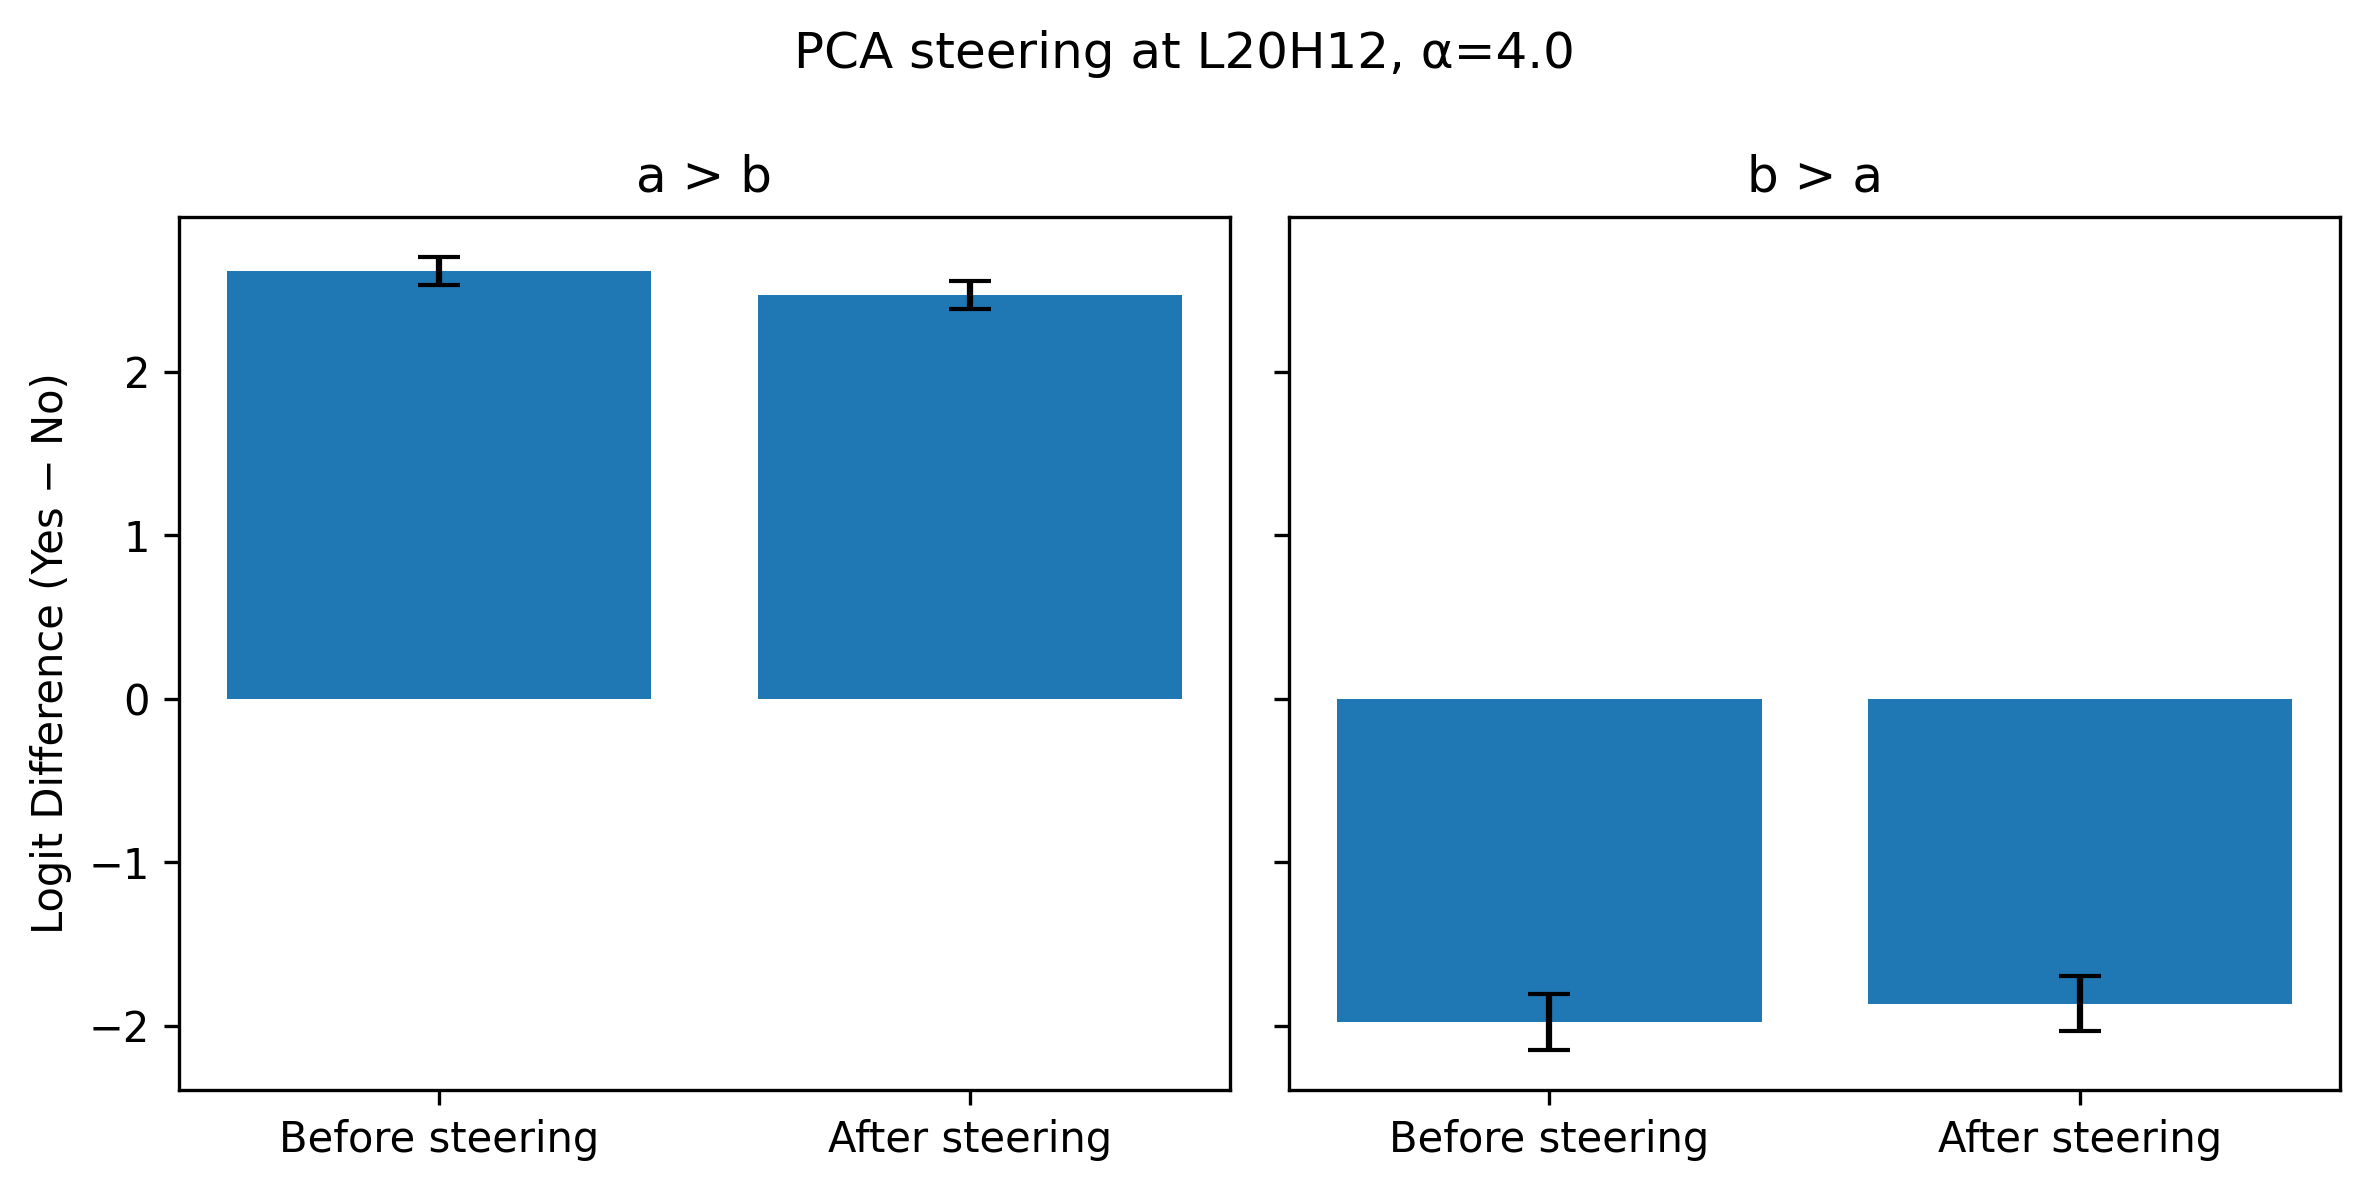
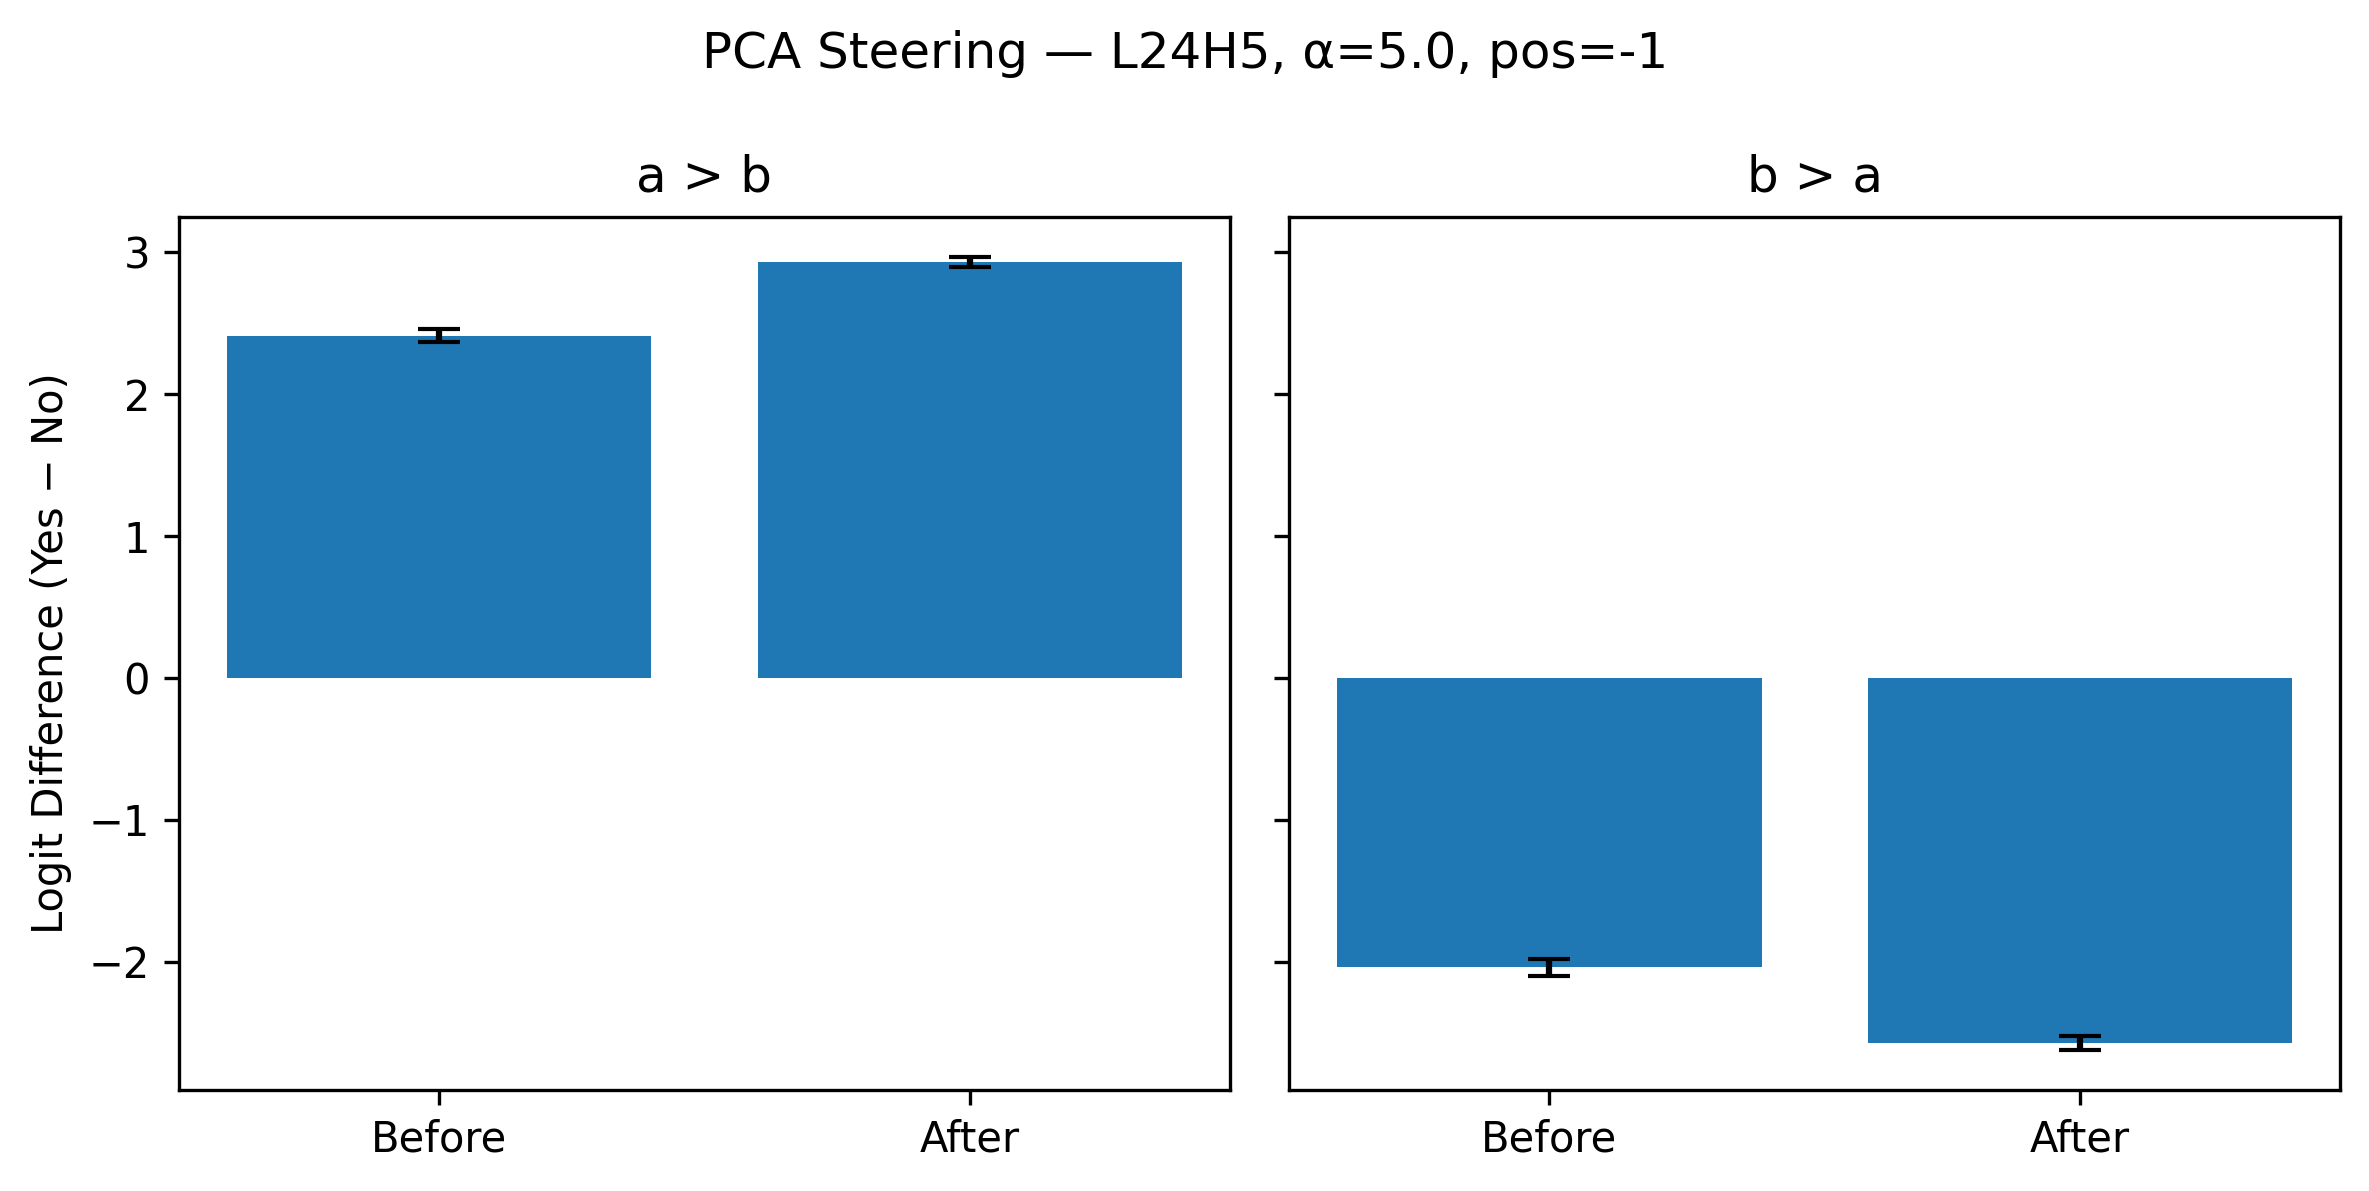
Activation steering code update

diff --git a/src/Experiments/Logit/ActivationSteering.py b/src/Experiments/Logit/ActivationSteering.py
@@ -24,7 +24,7 @@ yes_id = model.to_single_token(" Yes")
 no_id = model.to_single_token(" No")
 
 Attention_Layer = 24
-Attention_Head = 7
+Attention_Head = 5
 
 batches_base, batches_src, batches_ans = build_numeric_batches(model, dataset, yes_id, no_id, device)
 num_batches = len(batches_src)
